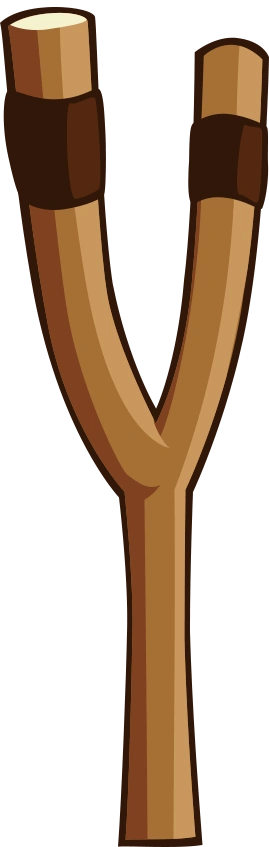
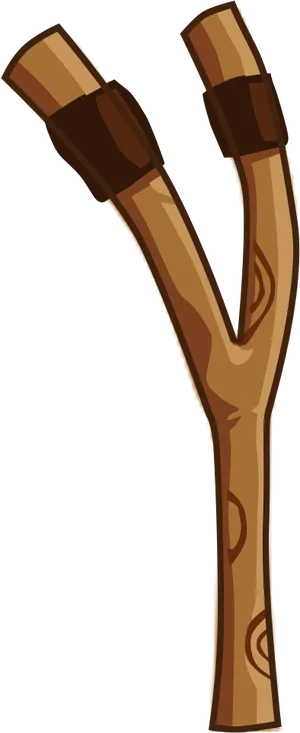
Collision works with Pigs and Structures and they both take damage, just need to add destruction to them

diff --git a/include/ContactListener.h b/include/ContactListener.h
@@ -1,0 +1,82 @@
+#pragma once
+#include "DynamicObject.h"
+#include "box2d/box2d.h"
+#include <iostream>
+#include <list>
+#include <set>
+/// \brief Custom contact listener to handle collision events in Box2D. Overrides the default contact listener to provide custom behaviour when collisions occur.
+
+class ContactListener : public b2ContactListener {
+
+    public:
+        std::set<uintptr_t> s_ptr;
+        std::unordered_map<uintptr_t, Pig*>* pigLookup;
+        std::unordered_map<uintptr_t, Structure*>* structLookup;
+        ContactListener(std::unordered_map<uintptr_t, Pig*>* pigLookup, std::unordered_map<uintptr_t, Structure*>* structLookup)
+        {
+            this->pigLookup = pigLookup;
+            this->structLookup = structLookup;
+        }
+    // Called when two fixtures begin to touch
+    void BeginContact(b2Contact* contact) override {
+        // Get the two fixtures involved
+        b2Fixture* fixtureA = contact->GetFixtureA();
+        b2Fixture* fixtureB = contact->GetFixtureB();
+        uintptr_t a = fixtureA->GetBody()->GetUserData().pointer;
+        uintptr_t b = fixtureB->GetBody()->GetUserData().pointer;
+
+        if ((a == 100 && b > 2) || (b == 100 && a > 2)) 
+        {
+            uintptr_t pigID;
+            uintptr_t structID;
+            if (a == 100)
+            {
+                pigID = b;
+                structID = b;
+            }
+            else if(b == 100)
+            {
+                pigID = a;
+                structID = a;
+            }
+            Pig* pig = (*pigLookup)[pigID];
+            Structure* structure = (*structLookup)[structID];
+            if (pig)
+            {
+                b2Vec2 VelocityA = fixtureA->GetBody()->GetLinearVelocity();
+                b2Vec2 VelocityB = fixtureB->GetBody()->GetLinearVelocity();
+                float impactSpeed = (VelocityA - VelocityB).Length();
+                float damage = impactSpeed * 10.0f;
+                std::cout << "Pig Takes Damage";
+                pig->TakeDamage(damage);
+            }
+
+            if (structure)
+            {
+                b2Vec2 VelocityA = fixtureA->GetBody()->GetLinearVelocity();
+                b2Vec2 VelocityB = fixtureB->GetBody()->GetLinearVelocity();
+                float impactSpeed = (VelocityA - VelocityB).Length();
+                float damage = impactSpeed * 10.0f;
+                std::cout << "Structure Takes Damage";
+                structure->TakeDamage(damage);
+            }
+        }
+
+        if ((a == 100 && b == 1) || (a == 1 && b == 100))
+        {
+            s_ptr.insert(fixtureB->GetBody()->GetUserData().pointer);
+            std::cout << "Bird has hit the floor";
+        }
+
+
+    }
+    // Called when two fixtures cease to touch
+    void EndContact(b2Contact* contact) override {
+        std::cout << "Collision Ended" << std::endl;
+    }
+
+    std::set<uintptr_t> getPointer() {
+        return s_ptr;
+    }
+
+};

diff --git a/src/main.cpp b/src/main.cpp
@@ -1,10 +1,12 @@
 #include <SFML/Graphics.hpp>
 #include <box2d/box2d.h>
 #include <iostream>
+#include <unordered_map>
 #include <Pig.h>
 #include <Bird.h>
 #include <Structure.h>
 #include <Slingshot.h>
+#include <ContactListener.h>
 
 int main() {
     float scale = 30.0f;
@@ -16,10 +18,16 @@ int main() {
 
     b2Vec2 b2_gravity(0.0f, 9.8f); // Earth-like gravity
     b2World world(b2_gravity);
+    std::unordered_map<uintptr_t, Pig*> pigLookup;
+    std::unordered_map<uintptr_t, Structure*> structureLookup;
+
+    ContactListener listener(&pigLookup, &structureLookup);
+    world.SetContactListener(&listener);
 
     b2BodyDef b2_groundBodyDef;
     b2_groundBodyDef.position.Set(400.0f / scale, 590.0f / scale);
     b2Body* b2_groundBody = world.CreateBody(&b2_groundBodyDef);
+    b2_groundBody->GetUserData().pointer = 1;
 
     b2PolygonShape b2_groundBox;
     b2_groundBox.SetAsBox(400.0f / scale, 10.0f / scale);
@@ -37,17 +45,21 @@ int main() {
     //Slingshot slingshot = Slingshot(world, b2Vec2(225.0f / scale, 500.0f / scale), b2Vec2(225.0f / scale, 450.0f / scale), 300.0f, 150.0f);
 
     pigs.push_back(std::make_unique<Pig>(world, b2Vec2(625.0f/scale, 500.0f/scale), PigType::SmallPig));
+    pigLookup[3] = pigs.back().get();
     pigs.push_back(std::make_unique<Pig>(world, b2Vec2(500.0f/scale, 560.0f/scale), PigType::MediumPig));
+    pigLookup[4] = pigs.back().get();
     pigs.push_back(std::make_unique<Pig>(world, b2Vec2(735.0f/scale, 550.0f/scale), PigType::LargePig));
+    pigLookup[5] = pigs.back().get();
 
     birds.push_back(std::make_unique<Bird>(world, b2Vec2(150.0f / scale, 560.0f / scale), BirdType::Red));
     birds.push_back(std::make_unique<Bird>(world, b2Vec2(100.0f / scale, 560.0f / scale), BirdType::Red));
     birds.push_back(std::make_unique<Bird>(world, b2Vec2(50.0f / scale, 560.0f / scale), BirdType::Red));
 
     structures.push_back(std::make_unique<Structure>(world, b2Vec2(600.0f/scale, 568.0f/scale), StructureType::WoodBlock));
+    structureLookup[9] = structures.back().get();
     structures.push_back(std::make_unique<Structure>(world, b2Vec2(650.0f/scale, 568.0f/scale), StructureType::StoneBlock));
-
-    slingshot = std::make_unique<Slingshot>(world, b2Vec2(225.0f / scale, 500.0f / scale), b2Vec2(225.0f / scale, 450.0f / scale), 300.0f, 150.0f);
+    structureLookup[11] = structures.back().get();
+    slingshot = std::make_unique<Slingshot>(world, b2Vec2(225.0f / scale, 480.0f / scale), b2Vec2(225.0f / scale, 425.0f / scale), 50.0f / scale, 100.0f / scale);
     //structures.push_back(std::make_unique<Structure>(world, b2Vec2(4.5f, 10.0f), StructureType::WoodPillar));
     //structures.push_back(std::make_unique<Structure>(world, b2Vec2(4.5f, 10.0f), StructureType::WoodPillar));
     //structures.push_back(std::make_unique<Structure>(world, b2Vec2(4.5f, 10.0f), StructureType::StonePillar));

diff --git a/src/Pig.cpp b/src/Pig.cpp
@@ -12,6 +12,7 @@ Pig::Pig(b2World& world, b2Vec2 position, PigType type)
 	bodyDef.position = position;
 
 	body = world.CreateBody(&bodyDef);
+	body->GetUserData().pointer = profile.pigID;
 
 	b2CircleShape shape;
 	shape.m_radius = profile.radius;
@@ -28,5 +29,13 @@ Pig::Pig(b2World& world, b2Vec2 position, PigType type)
 	sprite.setOrigin(textureSize.x / 2.0f, textureSize.y / 2.0f);
 	float desiredSize = shape.m_radius * 2.0f * scale;
 	sprite.setScale(desiredSize / textureSize.x, desiredSize / textureSize.y);
-
 };
+
+void Pig::TakeDamage(float damage)
+{
+	health -= damage;
+	if (health <= 0)
+	{
+
+	}
+}

diff --git a/src/Structure.cpp b/src/Structure.cpp
@@ -11,6 +11,7 @@ Structure::Structure(b2World& world, b2Vec2 position, StructureType type)
 	bodyDef.position = position;
 
 	body = world.CreateBody(&bodyDef);
+	body->GetUserData().pointer = profile.structID;
 
 	b2PolygonShape shape;
 	shape.SetAsBox(profile.height, profile.width);
@@ -28,4 +29,13 @@ Structure::Structure(b2World& world, b2Vec2 position, StructureType type)
 	float desiredHeight = profile.height * scale * 2.0f;
 	float desiredWidth = profile.width * scale * 2.0f;
 	sprite.setScale(desiredHeight / textureSize.x, desiredWidth / textureSize.y);
+}
+
+void Structure::TakeDamage(float damage)
+{
+	health -= damage;
+	if (health <= 0)
+	{
+		
+	}
 }

diff --git a/include/StructureProfile.h b/include/StructureProfile.h
@@ -6,6 +6,7 @@
 
 struct StructureProfile
 {
+	int structID;
 	int health;
 	float height;
 	float width;
@@ -18,6 +19,7 @@ static std::map<StructureType, StructureProfile> structureProfiles =
 	{
 		StructureType::WoodPillar,
 		{
+			6,
 			50,
 			1.0f,
 			0.2f,
@@ -29,6 +31,7 @@ static std::map<StructureType, StructureProfile> structureProfiles =
 	{
 		StructureType::GlassPillar,
 		{
+			7,
 			25,
 			1.0f,
 			0.2f,
@@ -40,6 +43,7 @@ static std::map<StructureType, StructureProfile> structureProfiles =
 	{
 		StructureType::StonePillar,
 		{
+			8,
 			100,
 			1.0f,
 			0.2f,
@@ -51,6 +55,7 @@ static std::map<StructureType, StructureProfile> structureProfiles =
 	{
 		StructureType::WoodBlock,
 		{
+			9,
 			50,
 			0.8f,
 			0.8f,
@@ -62,6 +67,7 @@ static std::map<StructureType, StructureProfile> structureProfiles =
 	{
 		StructureType::GlassBlock,
 		{
+			10,
 			25,
 			0.8f,
 			0.8f,
@@ -73,6 +79,7 @@ static std::map<StructureType, StructureProfile> structureProfiles =
 	{
 		StructureType::StoneBlock,
 		{
+			11,
 			100,
 			0.8f,
 			0.8f,

diff --git a/include/BirdAbilities.h b/include/BirdAbilities.h
@@ -1,0 +1,4 @@
+#pragma once
+#include "DynamicObject.h"
+
+class

diff --git a/include/PigProfile.h b/include/PigProfile.h
@@ -6,6 +6,7 @@
 
 struct PigProfile
 {
+	int pigID;
 	int health;
 	float radius;
 	float density;
@@ -17,6 +18,7 @@ static std::map<PigType, PigProfile> pigProfiles =
 	{
 		PigType::SmallPig,
 		{
+			3,
 			50,
 			0.8f,
 			1.0f,
@@ -27,6 +29,7 @@ static std::map<PigType, PigProfile> pigProfiles =
 	{
 		PigType::MediumPig,
 		{
+			4,
 			100,
 			1.2f,
 			1.5f,
@@ -37,6 +40,7 @@ static std::map<PigType, PigProfile> pigProfiles =
 	{
 		PigType::LargePig,
 		{
+			5,
 			150,
 			1.6f,
 			2.0f,

diff --git a/include/Pig.h b/include/Pig.h
@@ -9,4 +9,6 @@ private:
 	int health;
 public:
 	Pig(b2World& world, b2Vec2 position, PigType type);
+	void TakeDamage(float damage);
+	bool IsDead();
 };

diff --git a/include/Structure.h b/include/Structure.h
@@ -9,4 +9,6 @@ private:
 	int health;
 public:
 	Structure(b2World& world, b2Vec2 position, StructureType type);
+	void TakeDamage(float damage);
+	bool IsDestroyed();
 };

diff --git a/src/Slingshot.cpp b/src/Slingshot.cpp
@@ -22,7 +22,7 @@ Slingshot::Slingshot(b2World& world, b2Vec2 position, b2Vec2 anchorPoint, float 
 	body->CreateFixture(&fixture);
 	body->SetEnabled(false);
 
-	SetSprite("../assets/ang_birds/slingshot.png");
+	SetSprite("../assets/ang_birds/Slingshot.png");
 
 	sf::Vector2u textureSize = texture.getSize();
 	sprite.setOrigin(textureSize.x / 2.0f, textureSize.y / 2.0f);

diff --git a/src/Bird.cpp b/src/Bird.cpp
@@ -10,6 +10,7 @@ Bird::Bird(b2World& world, b2Vec2 position, BirdType type)
 	bodyDef.position = position;
 
 	body = world.CreateBody(&bodyDef);
+	body->GetUserData().pointer = 100;
 
 	b2CircleShape shape;
 	shape.m_radius = profile.radius;